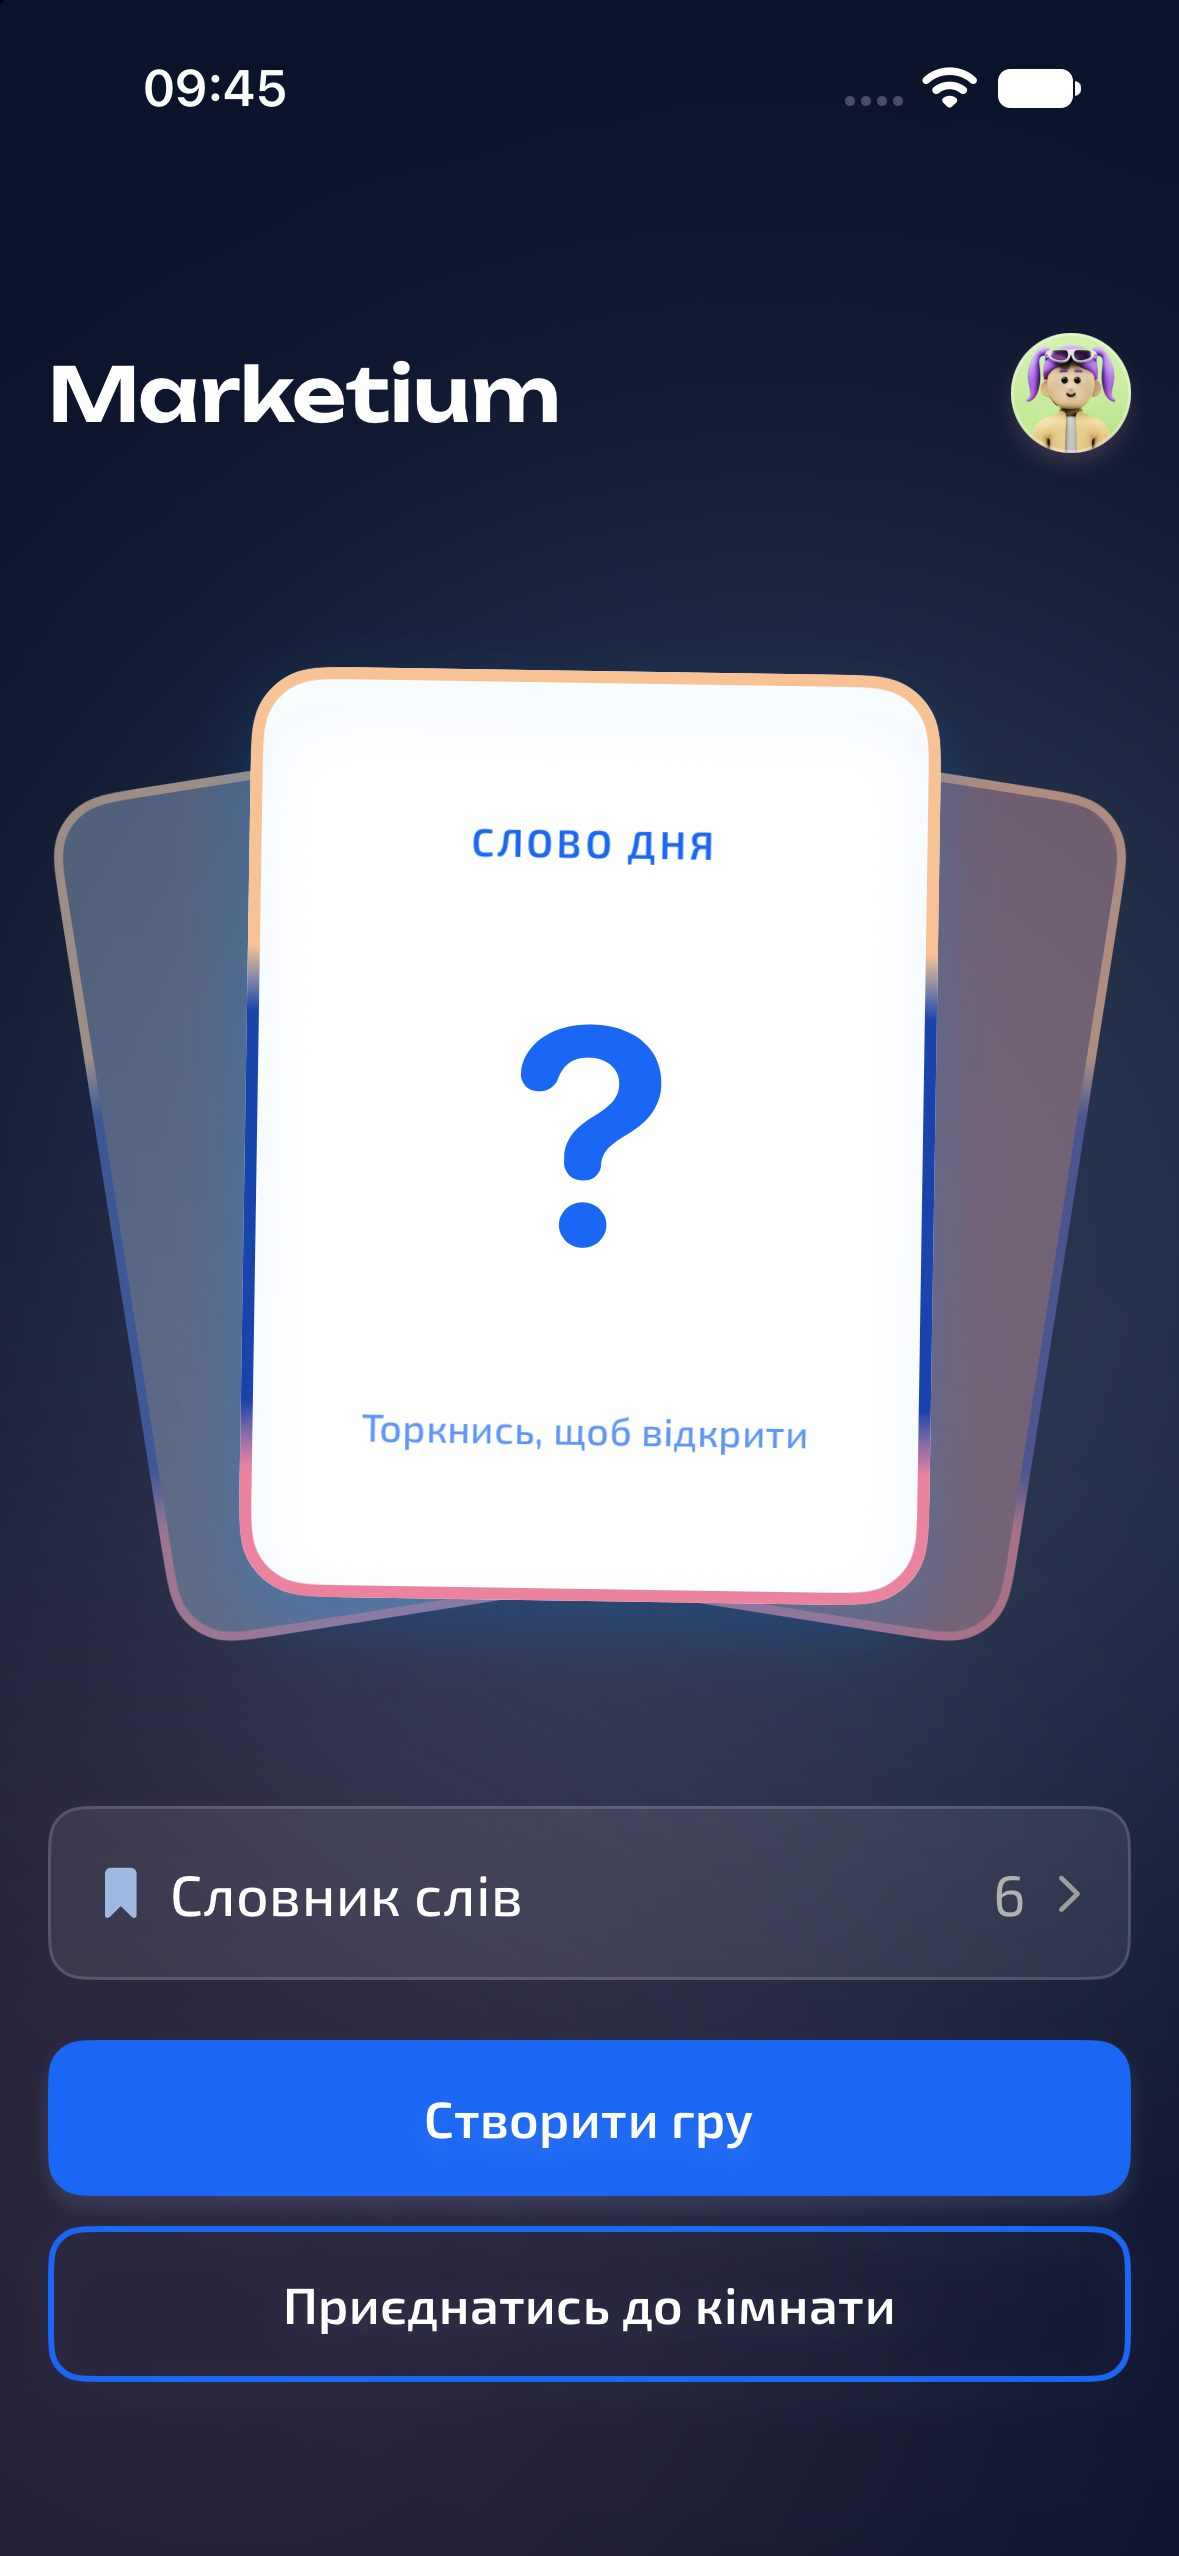
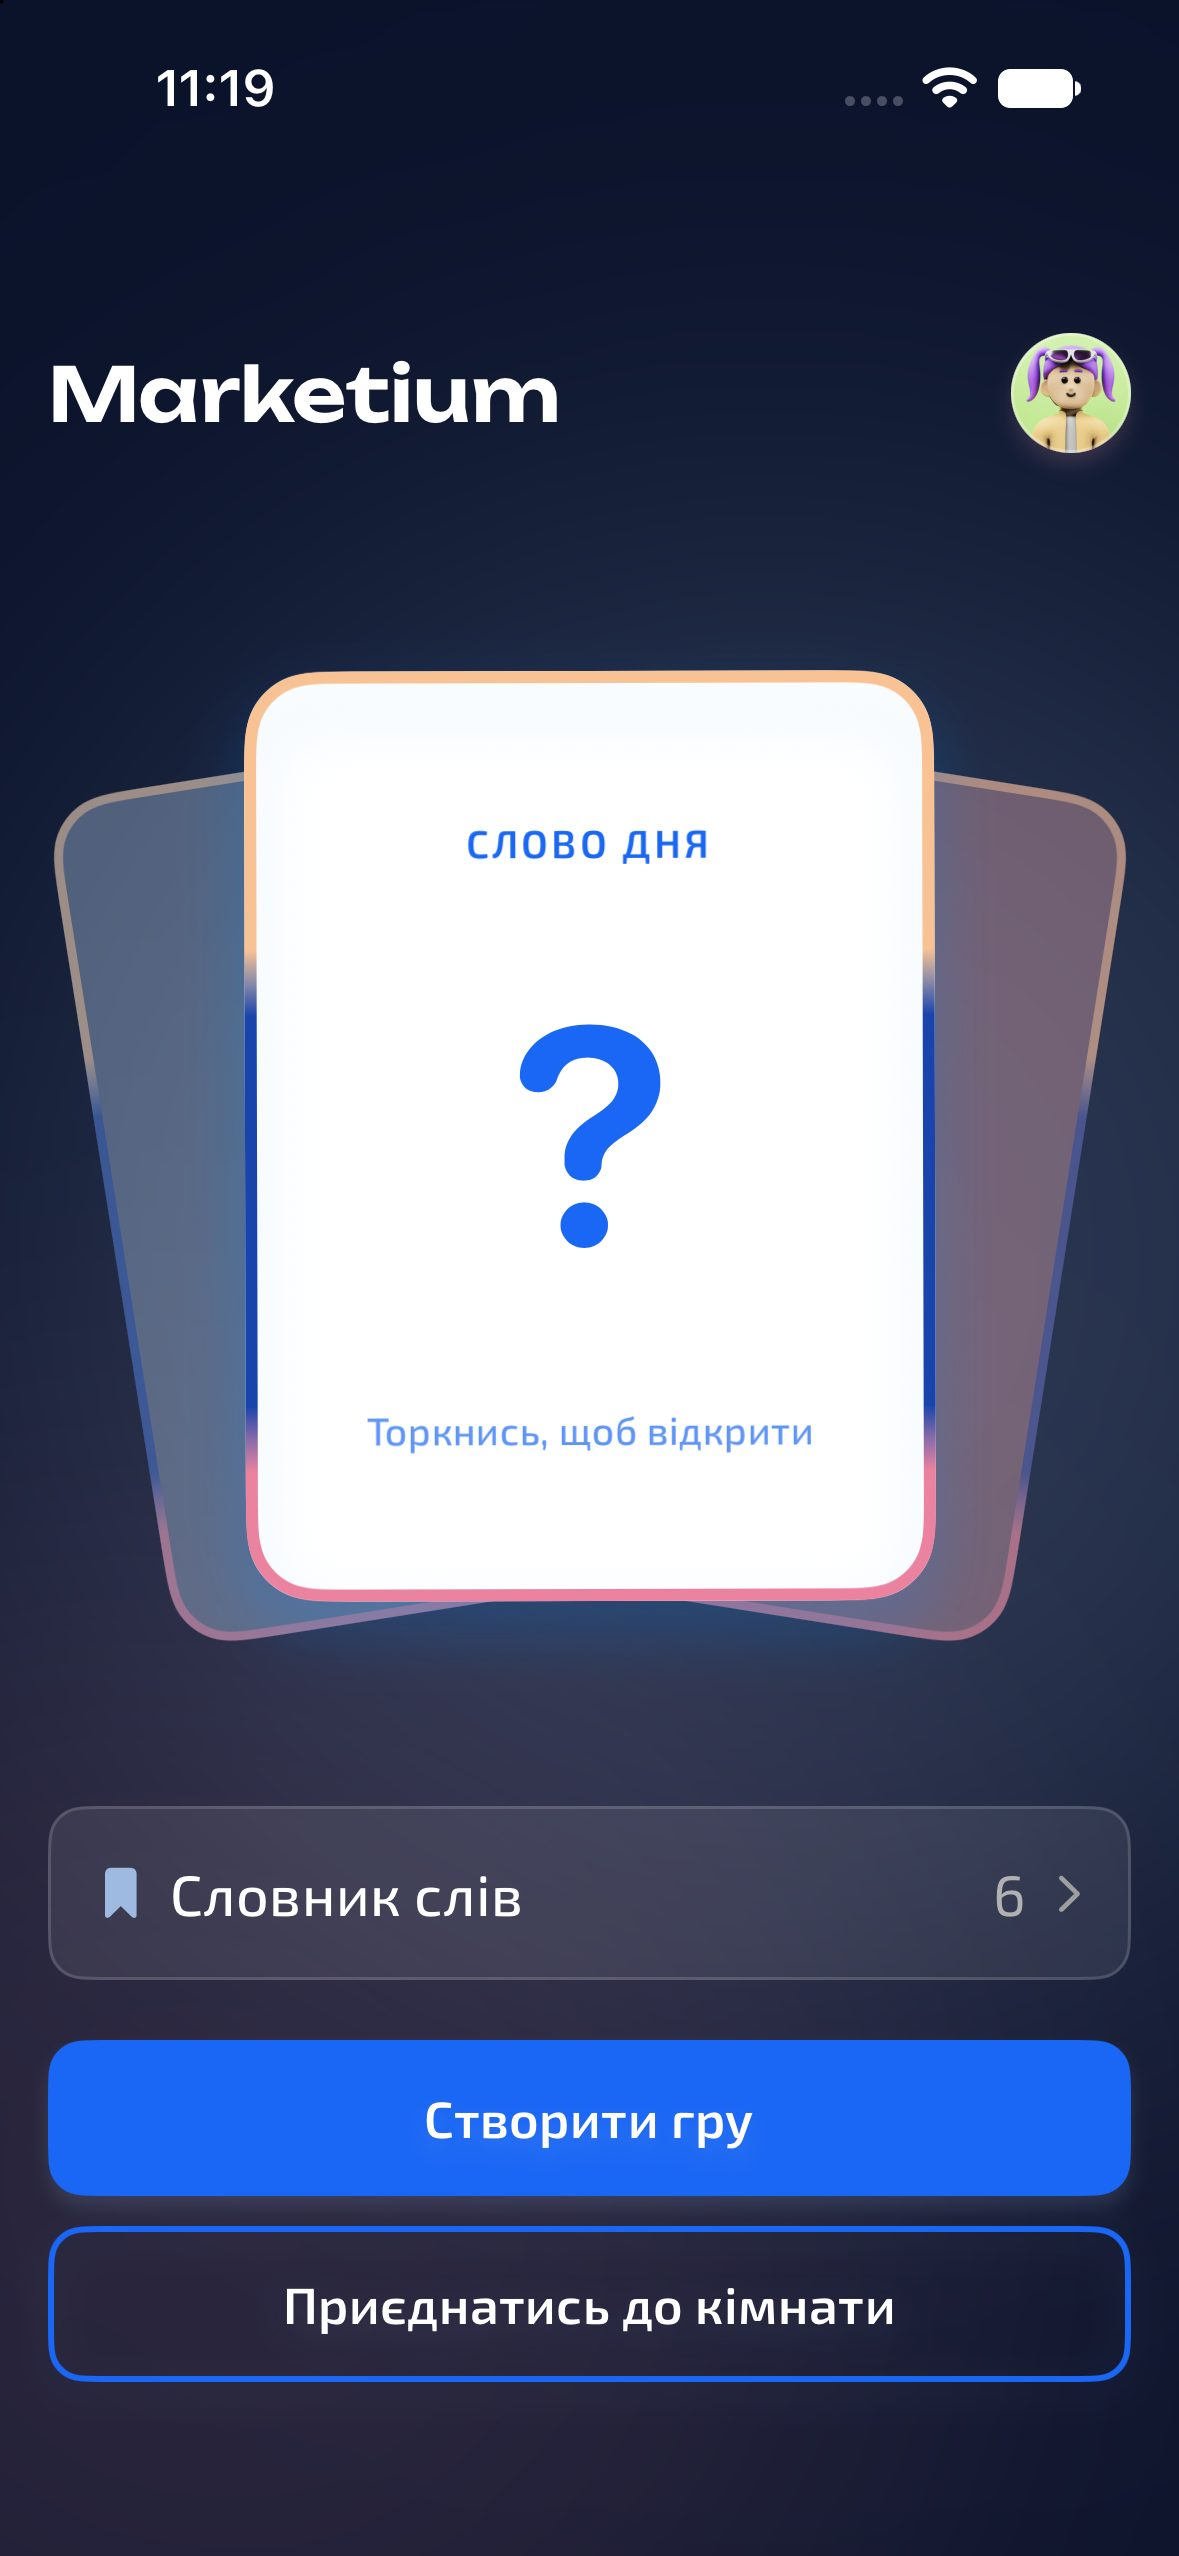
Слово дня: одне відкриття на добу

diff --git a/index.html b/index.html
@@ -160,10 +160,10 @@ figcaption{cursor:zoom-in}
 <div class="wrap">
 <header class="mast">
 <h1>Флоу та екрани Marketium</h1>
-<p class="lede">Повна карта застосунку: шість користувацьких шляхів і всі 62 екранів. Кожен екран — справжній роут, знятий із симулятора, а не мокап. Структура зчитана з коду: <code>Router</code>, <code>RootView</code> і всі переходи між екранами.</p>
+<p class="lede">Повна карта застосунку: шість користувацьких шляхів і всі 63 екранів. Кожен екран — справжній роут, знятий із симулятора, а не мокап. Структура зчитана з коду: <code>Router</code>, <code>RootView</code> і всі переходи між екранами.</p>
 <div class="grad"></div>
 <div class="meta">
-<span><b>62</b> екранів</span><span><b>6</b> флоу</span>
+<span><b>63</b> екранів</span><span><b>6</b> флоу</span>
 <span>iPhone 16 · 393×852</span><span>SwiftUI · iOS</span>
 </div>
 <div class="howto"><span class="ic"><svg width="22" height="22" viewBox="0 0 24 24" fill="none" aria-hidden="true"><path d="M4 5.5A2.5 2.5 0 0 1 6.5 3h11A2.5 2.5 0 0 1 20 5.5v8a2.5 2.5 0 0 1-2.5 2.5H10l-4.2 3.6c-.7.6-1.8.1-1.8-.8V5.5Z" fill="currentColor"/><path d="M12 6.5v6M9 9.5h6" stroke="#fff" stroke-width="1.8" stroke-linecap="round"/></svg></span><div><b>Щоб лишити коментар — просто клікни на екран.</b><span>У тому місці зʼявиться пін і поле для тексту. Пиши, тисни «Надіслати» — коментар одразу потрапляє в таблицю команди. Без реєстрації.</span></div></div>
@@ -369,19 +369,22 @@ figcaption{cursor:zoom-in}
 </figure></div>
 </section><section class="flow" id="fF">
 <header class="fh">
-<div class="fh-top"><span class="code">F</span><h2>Службові екрани</h2><span class="count">9</span></div>
+<div class="fh-top"><span class="code">F</span><h2>Службові екрани</h2><span class="count">10</span></div>
 <p class="blurb">Поза ігровими флоу: запуск, головна в різних станах, правила, налаштування й каталог дизайн-системи для розробки.</p>
 <p class="path">launch → main · rules · appSettings</p>
 </header>
 <div class="grid-screens"><figure class="card" tabindex="0" data-route="launch" data-label="Запуск" data-note="Сплеш при старті" data-src="shots/launch.jpg">
 <div class="shot"><img src="shots/launch.jpg" alt="Запуск" loading="lazy"></div>
 <figcaption><b>Запуск</b><span class="note">Сплеш при старті</span></figcaption>
-</figure><figure class="card" tabindex="0" data-route="main" data-label="Головна" data-note="Картка слова дня закрита" data-src="shots/main.jpg">
+</figure><figure class="card" tabindex="0" data-route="main" data-label="Головна" data-note="Слово дня закрите — одне відкриття на добу" data-src="shots/main.jpg">
 <div class="shot"><img src="shots/main.jpg" alt="Головна" loading="lazy"></div>
 <figcaption><b>Головна</b><span class="note">Картка слова дня закрита</span></figcaption>
-</figure><figure class="card" tabindex="0" data-route="mainWord" data-label="Головна — слово відкрите" data-note="Термін і пояснення" data-src="shots/mainWord.jpg">
+</figure><figure class="card" tabindex="0" data-route="mainWord" data-label="Головна — слово відкрите" data-note="Лишається лицем: «Наступне слово — завтра»" data-src="shots/mainWord.jpg">
 <div class="shot"><img src="shots/mainWord.jpg" alt="Головна — слово відкрите" loading="lazy"></div>
 <figcaption><b>Головна — слово відкрите</b><span class="note">Термін і пояснення</span></figcaption>
+</figure><figure class="card" tabindex="0" data-route="mainWordNextDay" data-label="Головна наступного дня" data-note="Відкривали вчора — картка знову закрита" data-src="shots/mainWordNextDay.jpg">
+<div class="shot"><img src="shots/mainWordNextDay.jpg" alt="Головна наступного дня" loading="lazy"></div>
+<figcaption><b>Головна наступного дня</b><span class="note">Відкривали вчора — картка знову закрита</span></figcaption>
 </figure><figure class="card" tabindex="0" data-route="mainGame" data-label="Головна з активною грою" data-note="Картка «Продовжити гру»" data-src="shots/mainGame.jpg">
 <div class="shot"><img src="shots/mainGame.jpg" alt="Головна з активною грою" loading="lazy"></div>
 <figcaption><b>Головна з активною грою</b><span class="note">Картка «Продовжити гру»</span></figcaption>
